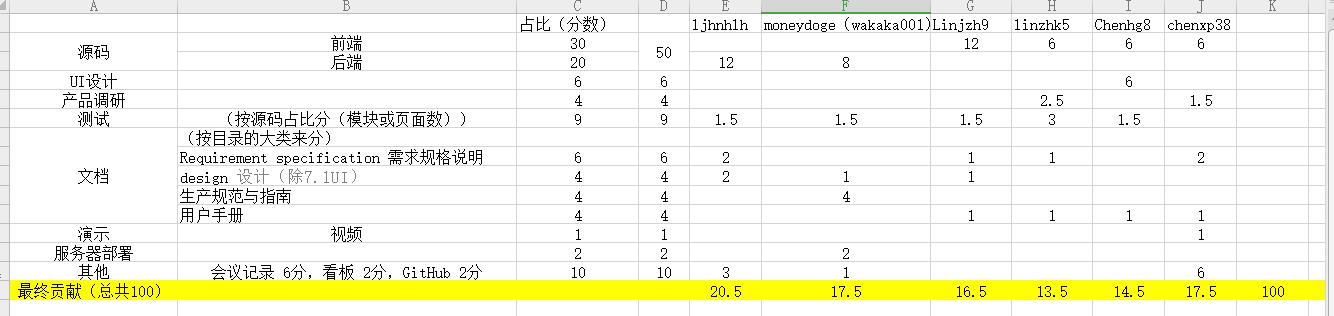
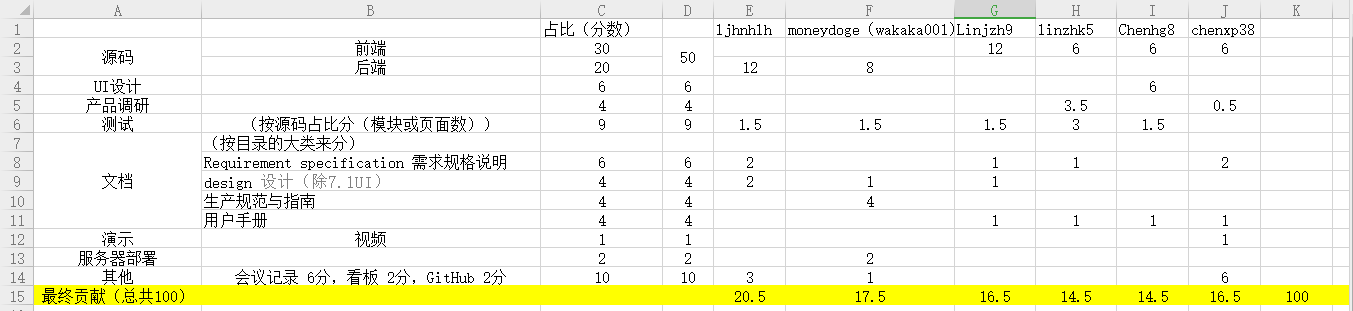
用户手册更新

Changed region(s): [[0.0, 0.0, 1.0, 1.0], [0.0615, 0.5209, 0.0922, 0.6077]]

diff --git a/SynthesizePractice/小组分工与贡献率说明.md b/SynthesizePractice/小组分工与贡献率说明.md
@@ -4,9 +4,9 @@
 | 16340140 |     ljhnhlh(组长)      |   项目管理、架构设计、后端Coding、项目文档书写   |       20.5%        |
 | 16340303 | wakaka001（moneydoge） |   项目管理、架构设计、后端Coding、项目文档书写   |       16.5%        |
 | 16340139 |        Linjzh9         | 交互设计、前端Coding、前端代码整合、项目文档书写 |       17.5%        |
-| 16340145 |        linzhk5         |        需求分析、前端Coding、项目文档书写        |       13.5%        |
+| 16340145 |        linzhk5         |        需求分析、前端Coding、项目文档书写        |       14.5%        |
 | 16340018 |        Chenhg8         |         UI设计、前端Coding、项目文档书写         |       14.5%        |
-| 16340038 |        chenxp38        |        需求分析、前端Coding、项目文档书写        |       17.5%        |
+| 16340038 |        chenxp38        |        需求分析、前端Coding、项目文档书写        |       16.5%        |
 
 ## 表2 制品与贡献率
 |      | 制品* | ljhnhlh | wakaka001 | Linjzh9 | linzhk5 | Chenhg8 | chenxp38 |

diff --git a/page/chenxp38_page/contribution_table.md b/page/chenxp38_page/contribution_table.md
@@ -3,10 +3,10 @@
 | :--------------------------: | :-------: |:-------:|:-------: |:-------:|:-------: |:-------:|
 | 后端                   | 60%   |40%|||||
 |  前端             |        ||40%|20%|20%|20%|
-| 分析设计                  |  |||25%  |60%  |15%  |
+| 分析设计                  |  |||35%  |60%  |5%  |
 |  需求规格                 | 18.3%       |28.3%|15%|16.7%|8.3%|13.3%|
 |  其他                 | 30%       |10%||||60%|
-|  汇总                 | 20.5%       |17.5%|16.5%|13.5% |14.5% |17.5%|
+|  汇总                 | 20.5%       |17.5%|16.5%|14.5% |14.5% |16.5%|
 
 ![贡献表](../../imgsrc/cxp_img/contribution_table.png)
 

diff --git a/SynthesizePractice/用户手册.md b/SynthesizePractice/用户手册.md
@@ -2,7 +2,7 @@
 
 #### 1.发布订单
 
-**问卷发布（归入发布模块cxp）**
+- **问卷发布**
 
 点击一键发布按钮后选择问卷，进入问卷系统填写问卷基本信息，完成后点击创建问卷：
 
@@ -16,6 +16,12 @@
 <img src="..\imgsrc\ljz_img\7.jpg"  style="zoom:20%">
 
 
+
+- **快递发布**
+  - 点击“一键发布”，选择“发布跑腿”
+- **跑腿发布**
+- **求助发布**
+- **闲置发布**
 
 #### 2.接收订单
 
